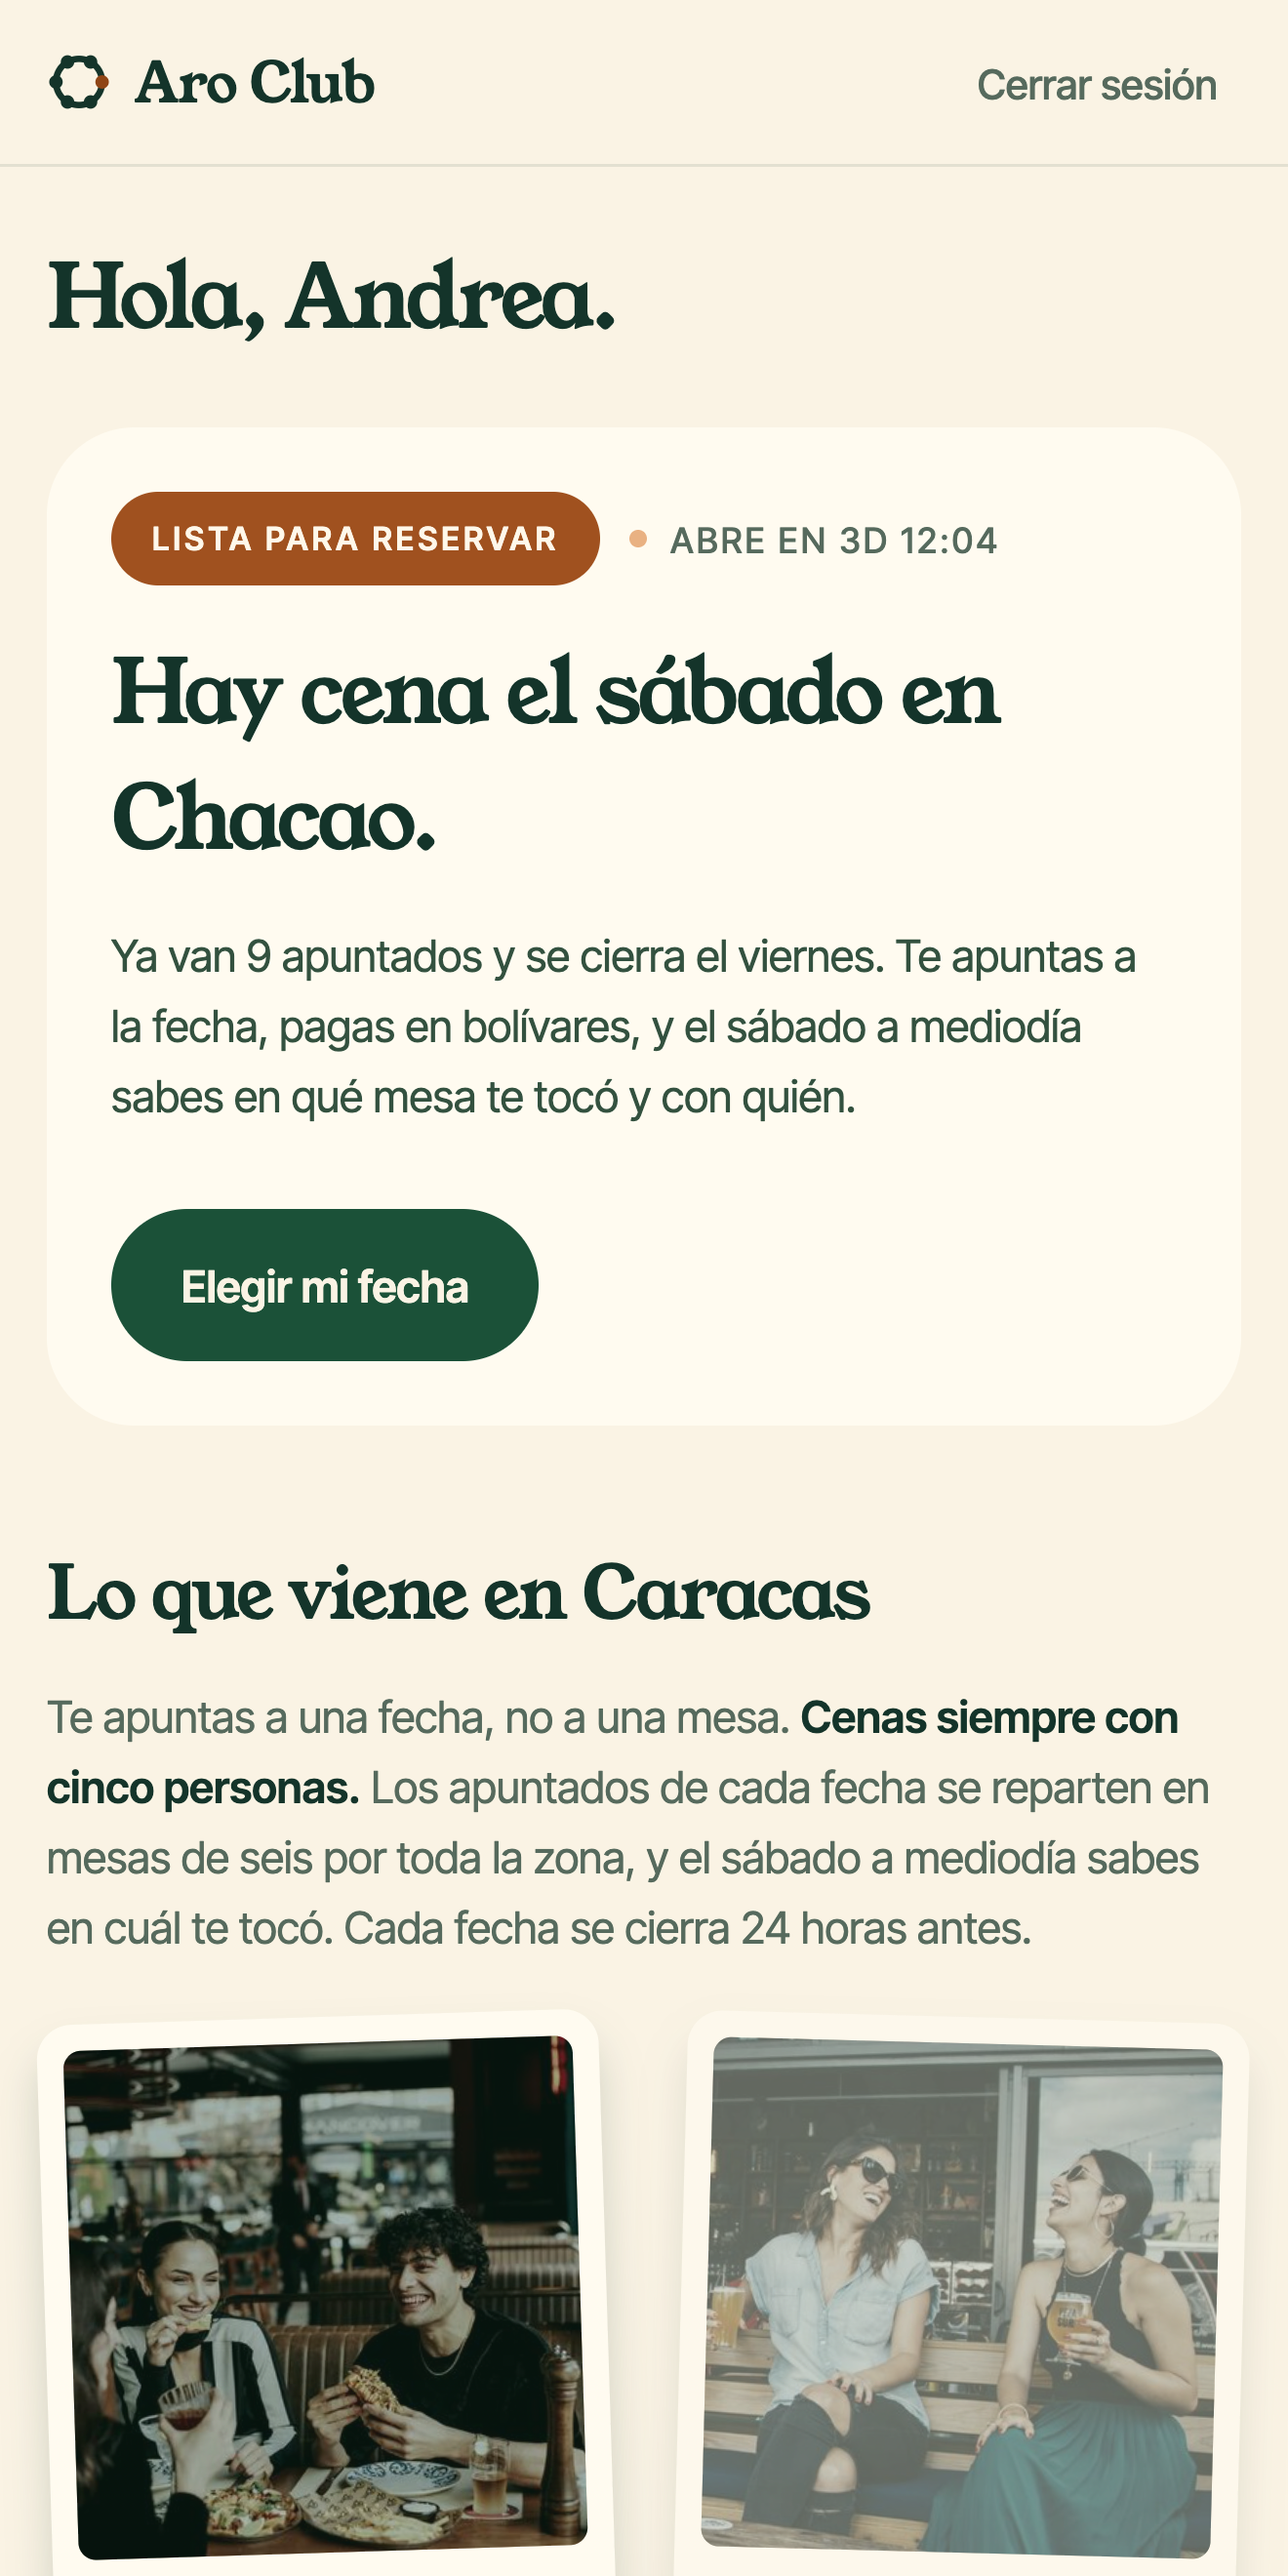
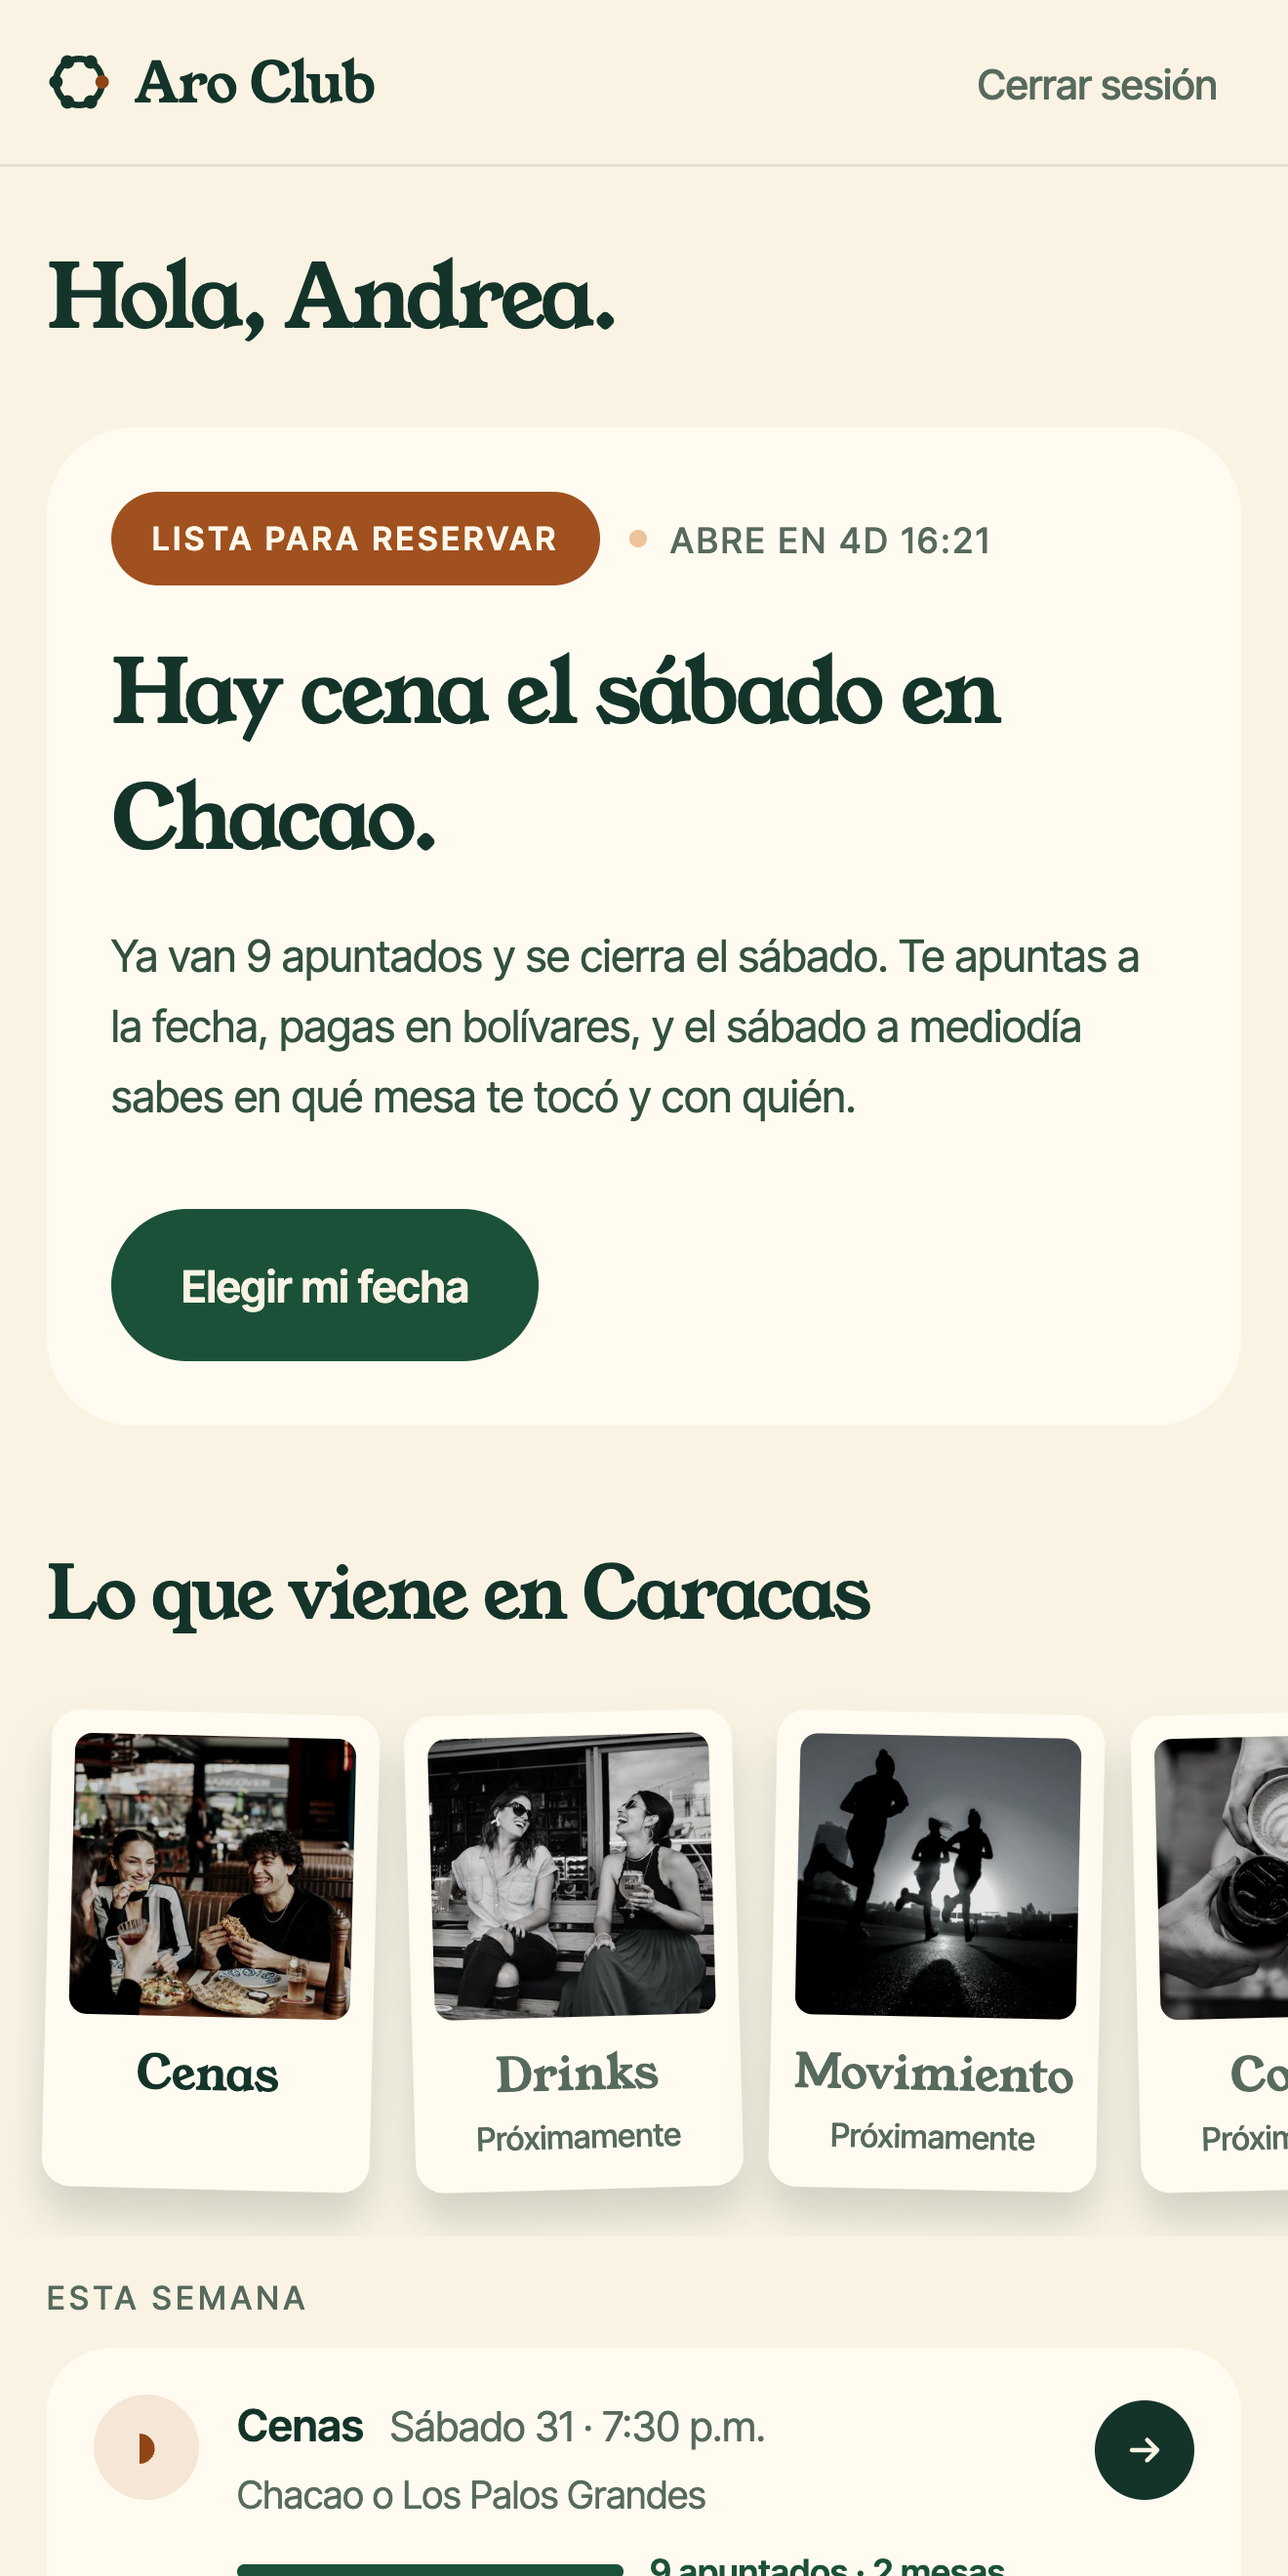
App: capturas de tienda al día (120 días, cierre a medianoche, Mi mesa nueva) y fichas con 10 USD
Las de Play y las dos de iPhone, sacadas del catálogo con el script de
siempre. El catálogo de Mi cuenta usa reglas.cierreDe en vez de 24 h a mano.

diff --git a/app-mobile/src/app/catalogo-cuenta.tsx b/app-mobile/src/app/catalogo-cuenta.tsx
@@ -1,4 +1,5 @@
 import { useMemo } from 'react'
+import { reglas } from '../reglas'
 import { router, useLocalSearchParams } from 'expo-router'
 
 import { Inicio } from '../cuenta/Inicio'
@@ -20,19 +21,21 @@ const en = (h: number) => new Date(Date.now() + h * 3600_000).toISOString()
 function deCaptura(d: MiCuenta, varios = false): MiCuenta {
   const s0 = sabado(0)
   const menos = (iso: string, h: number) => new Date(Date.parse(iso) - h * 3600_000).toISOString()
+  // El cierre de verdad (medianoche al empezar el día de la cena), no 24 h a mano: sale en las capturas de las tiendas.
+  const cierre = (iso: string) => reglas.cierreDe(iso) ?? menos(iso, 24)
   return {
     ...d,
     porValorar: null,
     agenda: [
-      { id: 'a', formato: 'dinner', empiezaEn: s0, cierraEn: menos(s0, 24), creditos: 1, zonas: ['Chacao', 'Los Palos Grandes'], apuntados: 9, cerrada: false, mia: false },
-      { id: 'b', formato: 'dinner', empiezaEn: sabado(1), cierraEn: menos(sabado(1), 24), creditos: 1, zonas: ['Las Mercedes', 'Altamira'], apuntados: 4, cerrada: false, mia: false },
-      { id: 'c', formato: 'dinner', empiezaEn: sabado(2), cierraEn: menos(sabado(2), 24), creditos: 1, zonas: ['La Castellana'], apuntados: 2, cerrada: false, mia: false },
+      { id: 'a', formato: 'dinner', empiezaEn: s0, cierraEn: cierre(s0), creditos: 1, zonas: ['Chacao', 'Los Palos Grandes'], apuntados: 9, cerrada: false, mia: false },
+      { id: 'b', formato: 'dinner', empiezaEn: sabado(1), cierraEn: cierre(sabado(1)), creditos: 1, zonas: ['Las Mercedes', 'Altamira'], apuntados: 4, cerrada: false, mia: false },
+      { id: 'c', formato: 'dinner', empiezaEn: sabado(2), cierraEn: cierre(sabado(2)), creditos: 1, zonas: ['La Castellana'], apuntados: 2, cerrada: false, mia: false },
       // ?varios=1: también drinks, para ver el filtro con «Todos» (entrega 19, 2a).
       ...(varios ? [{ id: 'd', formato: 'drinks', empiezaEn: menos(sabado(0), 47), cierraEn: menos(sabado(0), 71), creditos: 1, zonas: ['Altamira'], apuntados: 5, cerrada: false, mia: false }] : []),
       // El brunch (entrega 21): polaroid, icono y color propios.
       ...(varios ? [{ id: 'b', formato: 'brunch', empiezaEn: menos(sabado(0), -40), cierraEn: menos(sabado(0), 0), creditos: 1, zonas: ['Chacao'], apuntados: 3, cerrada: false, mia: false }] : []),
     ],
-    proximaFecha: { empiezaEn: s0, cierraEn: menos(s0, 24), revelaEn: menos(s0, 7.5), zona: 'Chacao', apuntados: 9, zonaHoraria: 'America/Caracas' },
+    proximaFecha: { empiezaEn: s0, cierraEn: cierre(s0), revelaEn: menos(s0, 7.5), zona: 'Chacao', apuntados: 9, zonaHoraria: 'America/Caracas' },
   }
 }
 

diff --git a/app-mobile/tienda/google-play.md b/app-mobile/tienda/google-play.md
@@ -19,18 +19,18 @@ marca) y sin nombrar un día escrito a mano.
 > CÓMO FUNCIONA
 > • Respondes unas preguntas sobre cómo eres, de qué te gusta hablar y qué días puedes.
 > • Te apuntas a una fecha, no a un grupo. Con todos los apuntados armamos grupos de seis por afinidad.
-> • El mismo día sabes dónde y con quién: el sitio, la hora y el nombre y el sector de los otros cinco. Nada más.
+> • Antes del plan sabes dónde y con quién: el sitio, la hora y el nombre y el sector de los otros cinco. Nada más.
 > • Para romper el hielo, el juego de la mesa: preguntas en tres rondas, de menos a más.
 > • Al terminar, cuentas qué tal. Puedes pedir no volver a coincidir con alguien, y nadie se entera.
 >
-> HOY CENAS, MUY PRONTO MÁS PLANES
-> Empezamos con cenas. Muy pronto, café, drinks y planes en movimiento.
+> HOY CENAS Y BRUNCH, MUY PRONTO MÁS PLANES
+> Empezamos con cenas y brunch. Muy pronto, café, drinks y planes en movimiento.
 >
 > TODOS VERIFICADOS
-> Cada persona sube su cédula y una selfie, y las revisa alguien del equipo, no un programa. Nadie más las ve, y se borran a los 90 días de aprobarse.
+> Cada persona sube su cédula y una selfie, y las revisa alguien del equipo, no un programa. Nadie más las ve, y se borran a los 120 días de aprobarse.
 >
 > SIN SORPRESAS
-> Tu puesto cuesta 7 USD, en bolívares. Cubre el emparejamiento, la verificación del grupo y la reserva a tu nombre; lo que consumes lo pagas en el sitio. Si cancelas con más de 24 horas, recuperas el crédito.
+> Tu puesto cuesta 10 USD. Puedes pagar por Pago Móvil, transferencia, Zelle o Bizum; en bolívares, a la tasa del día. Cubre el emparejamiento, la verificación del grupo y la reserva a tu nombre. Lo que consumes lo pagas en el sitio. Si cancelas con más de 24 horas, recuperas el crédito.
 >
 > DÓNDE
 > Empezamos en Caracas, y pronto abrimos en más ciudades.

diff --git a/app-mobile/tienda/app-store.md b/app-mobile/tienda/app-store.md
@@ -20,18 +20,18 @@ salen de cada fecha.
 > CÓMO FUNCIONA
 > • Respondes unas preguntas sobre cómo eres, de qué te gusta hablar y qué días puedes.
 > • Te apuntas a una fecha, no a un grupo. Con todos los apuntados armamos grupos de seis por afinidad.
-> • El mismo día sabes dónde y con quién: el sitio, la hora y el nombre y el sector de los otros cinco. Nada más.
+> • Antes del plan sabes dónde y con quién: el sitio, la hora y el nombre y el sector de los otros cinco. Nada más.
 > • Para romper el hielo, el juego de la mesa: preguntas en tres rondas, de menos a más.
 > • Al terminar, cuentas qué tal. Puedes pedir no volver a coincidir con alguien, y nadie se entera.
 >
-> HOY CENAS, MUY PRONTO MÁS PLANES
-> Empezamos con cenas. Muy pronto, café, drinks y planes en movimiento.
+> HOY CENAS Y BRUNCH, MUY PRONTO MÁS PLANES
+> Empezamos con cenas y brunch. Muy pronto, café, drinks y planes en movimiento.
 >
 > TODOS VERIFICADOS
-> Cada persona sube su cédula y una selfie, y las revisa alguien del equipo, no un programa. Nadie más las ve, y se borran a los 90 días de aprobarse.
+> Cada persona sube su cédula y una selfie, y las revisa alguien del equipo, no un programa. Nadie más las ve, y se borran a los 120 días de aprobarse.
 >
 > SIN SORPRESAS
-> Tu puesto cuesta 7 USD, en bolívares. Cubre el emparejamiento, la verificación del grupo y la reserva a tu nombre; lo que consumes lo pagas en el sitio. Si cancelas con más de 24 horas, recuperas el crédito.
+> Tu puesto cuesta 10 USD. Puedes pagar por Pago Móvil, transferencia, Zelle o Bizum; en bolívares, a la tasa del día. Cubre el emparejamiento, la verificación del grupo y la reserva a tu nombre. Lo que consumes lo pagas en el sitio. Si cancelas con más de 24 horas, recuperas el crédito.
 >
 > DÓNDE
 > Empezamos en Caracas, y pronto abrimos en más ciudades.
